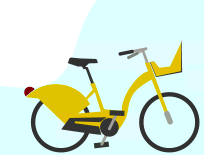
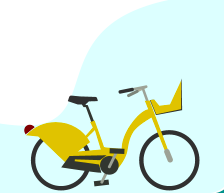
CSS, Images, Bootstrap styling on Transport page

Changed region(s): [[0.0, 0.2581, 1.0, 1.0], [0.3529, 0.0, 0.7353, 0.3097], [0.9706, 0.9806, 1.0, 1.0]]

diff --git a/src/views/Transport.vue b/src/views/Transport.vue
@@ -3,20 +3,20 @@
     <router-link class="go-back-button" to="/">Go Back</router-link>
     <div class="wrapper">
          <div class="boxs box1">
-             <Post id="one"
-             :title-text="'Get help through your journey'"
-             :content-text="'I cannot unfortunately follow you  \
-                    everywhere but luckily there is \
-                    a tool that can. Download the  \
-                    free ASL app to your mobile. The app  \
-                    will help you to easily find your way  \
-                    around the city. It is also the easiest \
-                    way to pay your ticket. \
-                    You can also easily find attractions  \
-                    on the app and if you find something  \
-                    interesting, you can bookmark it  \
-                    The app is available on the  \
-                    Playstore and on AppStore'"/>
+             <img :src="img1" id="img1" class="rounded float-right">
+             <Post :first-title="'Get help through your journey'"  id="oneTitle"/>
+             <Post :content-text="'I unfortunately cannot follow you  \
+                                   everywhere but luckily there is \
+                                   a tool that can. Download the  \
+                                   free ASL app to your mobile. The app  \
+                                   will help you to easily find your way  \
+                                   around the city. It is also the easiest \
+                                   way to pay your ticket. '"  id="oneContent" />
+            <Post :content-text="' You can also easily find attractions  \
+                                   on the app and if you find something  \
+                                   interesting, you can bookmark it.'"/>
+            <Post :content-text="'The app is available on the Playstore and on AppStore'"/>
+
          </div>
 
           <div class="boxs box2">
@@ -24,21 +24,31 @@
              :title-text="'Too much hassle'"
              :content-text="'Order an Airport Taxi and you will be at your destination in no time!'"/>
             <alert-box />
+            <img :src="img2" id="img2">
+            
           </div>
 
          <div class="boxs box3">
              <Post id="three"
               :title-text="'City Bikes'"
               :content-text="'Learn more'"/>
-              <Images />
+
+              <div class="row">
+                <div class="column">
+                    <img :src="img3" style="width:100%">
+                </div>
+                <div class="column">
+                    <img :src="img4" style="width:100%" >
+                </div>
+            </div>
+
          </div>
 
          <div class="boxs box4">
              <Post id="four"
              :title-text="'Indoor Map'" />
-             <img :src="product[0]" />
          </div>
-
+        
 
     </div>
   </div>
@@ -48,25 +58,20 @@
 <script>
 import Post from "../components/TransportText"
 import AlertBox from "../components/AlertBox"
-import Images from "../components/TransportPics"
 
 export default {
     name: "Transport",
     components: {
         Post,
-        AlertBox,
-        Images
+        AlertBox
     },
      data: () => {
             return {
-                product: [
-                    {
-                        image: require("@/assets/Bike.png")
-                    },
-                    {
-                        image: require("@/assets/ASLapp.png")
-                    }
-                ]
+                img1: require('../assets/ASLapp.png'),
+                img2: require('../assets/car.png'),
+                img3: require('../assets/qrcode.png'),
+                img4: require('../assets/Bike.png'),
+                img5: require('../assets/map.png')
             }
         }
 };
@@ -77,15 +82,15 @@ export default {
 
 
 <style scoped>
+
 .about{
     background-color: #30BFBF;
     margin-top: 30px;
     margin-left: 30px;
     margin-right: 20px;
     width: 1900px;
-    height: 700px;
+    height: 800px;
 }
-
 
 .wrapper {
     display: grid;
@@ -95,11 +100,13 @@ export default {
     justify-items: stretch;
     align-items: stretch;
     width: 130vw;
+    height: 50vw;
+    text-align: left;
 }
 
 .wrapper > div{
     background: white;
-    padding: 1em;
+    padding: 3em;
     border-radius: 20px;
     margin-left: 30px;
 }
@@ -128,24 +135,38 @@ export default {
     color: white;
 }
 
-h2{
-    font-size: 30px;
+#oneContent{
+    margin-top: 50px;
+}
+#two, #four{
     text-align: center;
-    font-weight: bold;
 }
-p{
-    font-size: 20px;
+#img1{
+    margin-top: 100px;
 }
-p1{
-    font-size: 18px;
+#img2{
+    border-radius: 15px;
+    height: 200px;
+    margin-top: 10px;
 }
-#one h2{
-    font-size: 45px;
+#img3{
+    margin-bottom: 100px;
+
 }
-#one{
-    text-align: left;
+#img4{
+    border-radius: 15px;
+    margin-bottom: 30px;
 }
-#three{
-    text-align: left;
+
+.column {
+  float: left;
+  width: 40.33%;
+  padding: 10px;
+  margin-bottom: 30px;
+}
+
+.row::after {
+  clear: both;
+  display: table;
 }
 </style>

diff --git a/src/components/AlertBox.vue b/src/components/AlertBox.vue
@@ -14,11 +14,11 @@
         this.$swal({
           title: '<i>Taxistation</i>',
           html:
-            'Find the Taxi rank by going straight to Terminal 5. Thereafter turn left and you' +
+            'Find the Taxi rank by going straight to Terminal 1. Thereafter turn left and you' +
             ' will find our Taxi ranks. <br>' + 
 
-            '<em><br>You could also download the free <a href="https://apps.apple.com/fi/app/meneva/id1403831005?ls=1">Menevä app</a> ' +  
-            'for ordering a taxi online</em>',
+            '<em><br>You could also download the free and easy "Menevä App" ' +  
+            'for ordering a taxi online.</em>',
           showCloseButton: true,
           focusConfirm: false,
         })

diff --git a/src/components/TransportText.vue b/src/components/TransportText.vue
@@ -1,5 +1,6 @@
 <template>
     <div>
+        <h1>{{firstTitle}} </h1>
         <h2>{{titleText}}</h2>
         <p>{{contentText}}</p>
     </div>
@@ -9,7 +10,7 @@
 
 <script>
 export default {
-    props: ['titleText', 'contentText']
+    props: ['firstTitle', 'titleText', 'contentText']
 };
 
 </script>
